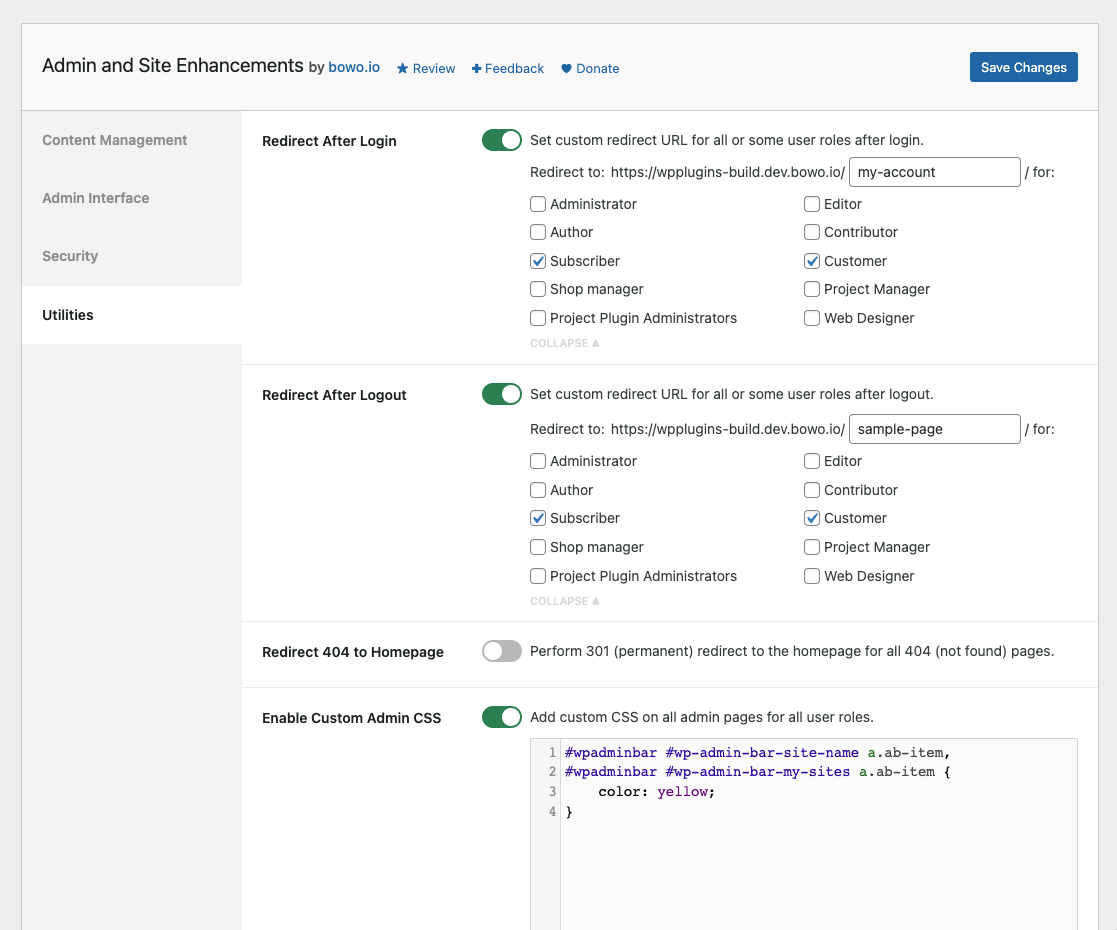
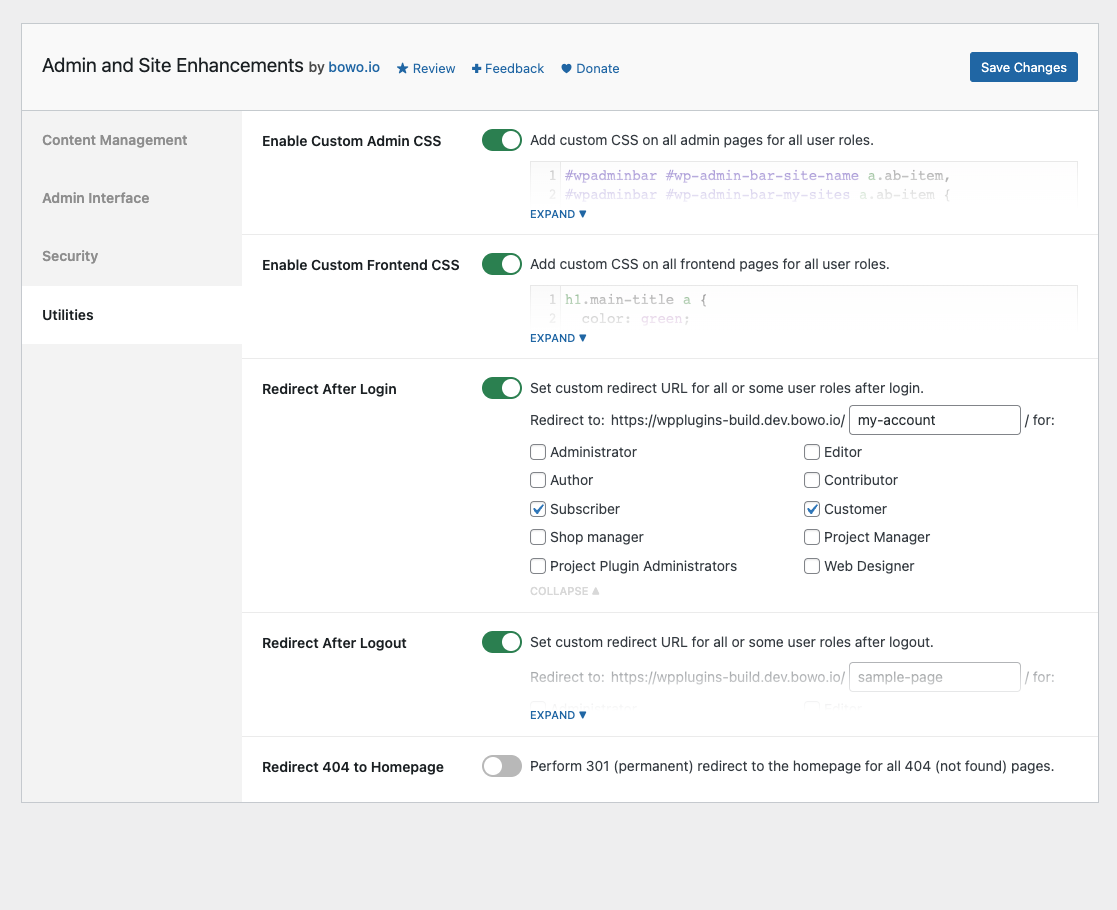
v2.4.0 release

diff --git a/admin-site-enhancements.php b/admin-site-enhancements.php
@@ -4,7 +4,7 @@
  * Plugin Name:       Admin and Site Enhancements
  * Plugin URI:        https://wordpress.org/plugins/admin-site-enhancements/
  * Description:       Easily enable enhancements and features that usually require multiple plugins.
- * Version:           2.3.0
+ * Version:           2.4.0
  * Author:            Bowo
  * Author URI:        https://bowo.io
  * License:           GPL-2.0+
@@ -18,7 +18,7 @@ if ( ! defined( 'ABSPATH' ) ) {
 	exit;
 }
 
-define( 'ASENHA_VERSION', '2.3.0' );
+define( 'ASENHA_VERSION', '2.4.0' );
 define( 'ASENHA_ID', 'asenha' );
 define( 'ASENHA_SLUG', 'admin-site-enhancements' );
 define( 'ASENHA_SLUG_U', 'admin_site_enhancements' );

diff --git a/README.md b/README.md
@@ -5,7 +5,7 @@ Donate link: https://paypal.me/qriouslad
 Tags: enhancements, tweaks, optimizations, tools  
 Requires at least: 4.6  
 Tested up to: 6.1  
-Stable tag: 2.3.0  
+Stable tag: 2.4.0  
 Requires PHP: 5.6  
 License: GPLv2 or later  
 License URI: http://www.gnu.org/licenses/gpl-2.0.html
@@ -52,9 +52,10 @@ Admin and Site Enhancements helps you to easily enhance various admin workflows 
 
 ### Utilities
 
+* **Enable Custom Admin CSS**. Add custom CSS on all admin pages for all user roles.
+* **Enable Custom Frontend CSS**. Add custom CSS on all frontend pages for all user roles.
 * **Redirect After Login / Logout**. Set custom redirect URL for all or some user roles after login / logout.
 * **Redirect 404 to Homepage**. Perform 301 (permanent) redirect to the homepage for all 404 (not found) pages.
-* **Enable Custom Admin CSS**. Add custom CSS on all admin pages for all user roles.
 
 Admin and Site Enhancements will include more enhancements, tweaks and useful features in future versions. Please [give feedback](https://wordpress.org/support/plugin/admin-site-enhancements/) on must-have plugins or code snippets you enable on sites that you manage, and the functionalities will be considered for inclusion as well.
 
@@ -91,9 +92,13 @@ Hoping that this is useful in reducing the number of plugins we install the firs
 
 ## Changelog
 
+### 2.4.0 (2022.11.10)
+
+* **[ADDED] Utilities >> Enable Custom Frontend CSS**: Add custom CSS on all frontend pages for all user roles.
+
 ### 2.3.0 (2022.11.09)
 
-* **[ADDED] Enable Custom Admin CSS**: Add custom CSS on all admin pages for all user roles.
+* **[ADDED] Utilities >> Enable Custom Admin CSS**: Add custom CSS on all admin pages for all user roles.
 
 ### 2.2.0 (2022.11.09)
 
